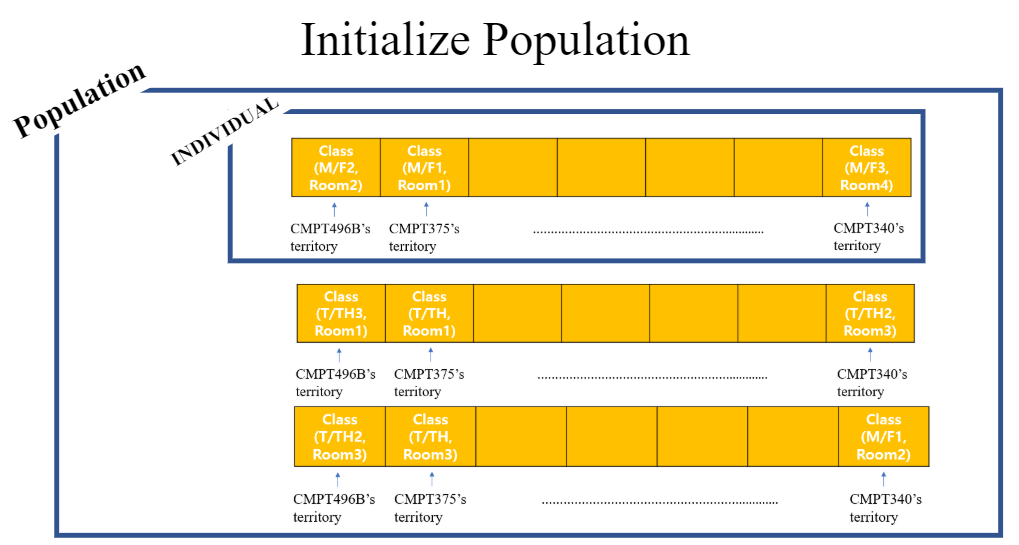
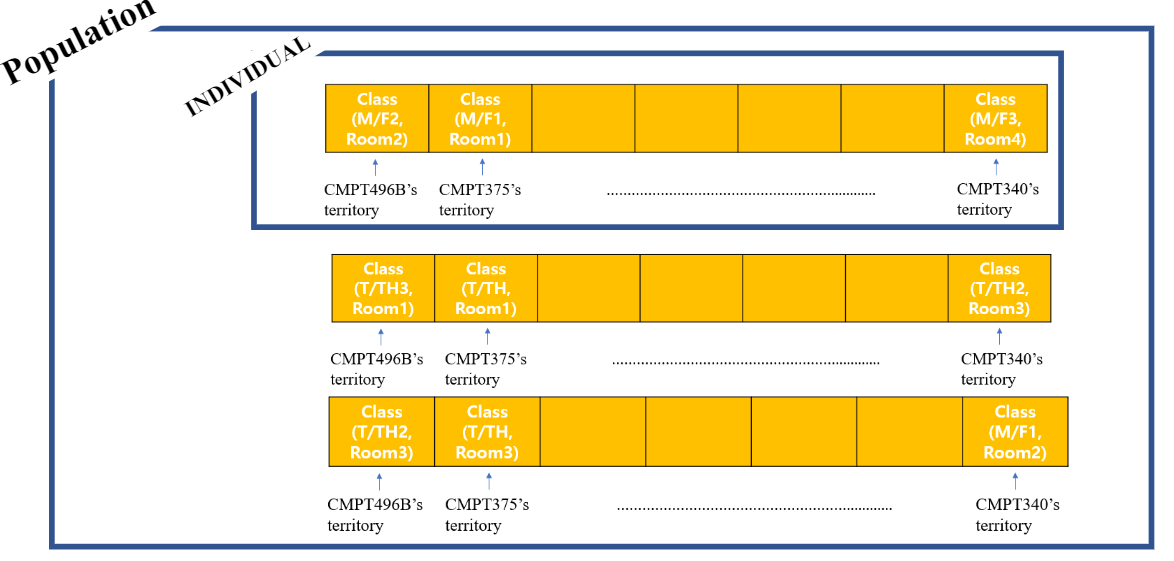
.

diff --git a/GA.html b/GA.html
@@ -47,20 +47,20 @@
 <div id =title ><div align = "center"><h3>0. Problem description</h3><br></div></div>
 <div id =title >
 <br>
-Let's say we need to make schedule for room/time with courses. How are we going to tune?
-It could be easy enough to do by manual way when it is not too much to tune, however, If it is too big to schedule it manually, then it would not be the best way to do it.
-Those are courses we have for comming semester, and we want to match room and time for each courses without any problems. <br></div>
+Let's say we need to make schedule for room/time with courses. How can we tune the schedule for all the courses ?
+It could be easy enough to be done by manual way when it is not too much to tune, however, If the scale is too large to schedule it manually, then it would not be the best way to do it manually.
+Those are courses we have for comming semester, and we want to match room and time for each courses without any conflicts.<br></div>
 
 
 <div id = n><img src = 'GA/img/Course.PNG' width="300px"></div>
 <div id = pic><img src = 'GA/img/blank.PNG' width="300px"></div>
 <br><br><br>
-<div id = text>The left picture below is the one possible answer for the scheduling and the right picture below is the wrong answer.</div>
+<div id = text>The left picture below is one of the possible answer for the scheduling and the right picture below is one of the wrong answer.</div>
 <div id = n><img src = 'GA/img/possible.PNG' width="400px"><br>The possible right answer</div>
 <div id = pic><img src = 'GA/img/violations.PNG' width="300px"><br>Wrong answer</div>
 
 <div id = text><br>
-Why can it not be the right answer?<br>
+Why can't it be the right answer?<br>
 </div>
 
 <div id = n><img src = 'GA/img/c1.PNG' width="200px"><br>Prof.A :<br> 2 lectures at the same time.</div>
@@ -82,40 +82,59 @@ If evaluation function is equal to 1, then it can be possible solution.
 
 <div id =title ><div align = center><h3>1. The concept of Genetic Algorithm</h3><br></div></div>
 
-<div id = text>Genetic algorithm is the way of finding the answer imitating the genetic system.
-All people get their genetic information from their parents, half from mom and half from dad. and sometimes, mutation occurs which can change the genetic information.
-In the Genetic Algorithm , each individual contains the information of answer. It does not have to be right.
-Each individual is now evaluated how much it is close to the correct answer. Depends on the fitness value of individual, it varies the chance of being parents.
-Then, How can we represent this information of courses and the classes for each individual? We can use array.
-Let’s say there are 7 courses. 🡪 create 7 spots for each courses.
-Array which contains “Class” classes	 🡪 Class[7]
-So first spot represents 1st course, second spot 2nd course.</div>
+<div id = text>Genetic algorithm uses the idea derived from how the inheritance works to fine a right answer.
+All individual gets their genetic information from their parents, equally from mother and father. Sometimes, mutation occurs and it changes genetic information.
+In the Genetic Algorithm , each individual contains information which is a candidate for answer.(It does not have to be right.)
+Each individual is now evaluated how close it is to the correct answer. Depends on the fitness value of individual, it varies the chance of being parents.
+If fitness value is high, then it has more chance to be picked up as parents. Two individuals are parents, and two offsprings are made from one parents. A simple mixture of parents' information is now information of offspring.<br>
+
+Then, How can we represent course information and the classes at each individual?
+Let’s say there are 7 courses. These 7 courses need class room and specific time. Where and when.
+This can be done by using array.
+
+Each index represent (class room and time) information.
+For example, Array[0] means (Monday_1st period, Room1), Array[1] (Monday_2nd period,Room1) ,....,(Friday_5th period, Room5)
+So whichever course is at the index of 0, this course is held in Monday_1st period and Room 1.
+</div>
 <div id = pic><img src ='GA/img/ch.PNG' width = "600px"></div>
 
 <div id = text>
-Now, we need to initialize population. Population is the group of individuals which contain information in the chromosome.</div>
+Now, we need to initialize population. Population is the group of individuals which contain a candidate for the right schedule.</div>
 
-<div id = pic><img src = 'GA/img/pop.PNG'  width="300px"></div>
+<div id = pic><img src = 'GA/img/pop.PNG'  width="600px" align = center></div>
+<br>
 <div id = text>
-and based on this, if there is the answer in that population, stop searching and return the answer,
-If there is no answer exists, then It will make another generation by selection, cross over, mutaton.
+After setting initial population, all individuals are evaluated with fitness formula. If there is any individual which has fitness value of 1, then it means that individual is the one we are looking for. Therefore, we pick that one as the right answer and terminate our algorithm.
+However, It is not likely to happen.<br>
+If none of them has fitness value of 1, then now we need to make another population replacing previous individuals(parents) to better individuals(offsprings).
+It is possibly done by selcting parents which has high fitness, and mutating some information to avoid being kept in local optima.
+</div>
 
-selection:
-There are some diverse selection methods such as rank order, russian rullette and etc, but I used rank order selection.
-Pick several individuals and pick the best one.</div>
-<div id = n><img src = 'GA/img/tour.PNG'  width="300px"></div>
-
-<div id = pic><img src = 'GA/img/tour_sel.PNG'  width="300px"></div>
-
-crossover:
-<div id = pic><img src = 'GA/img/crossover.PNG'  width="600px"></div>
-
-
-mutation:
+<center><h3>Selection</h3></center>
+<div id = n><img src = 'GA/img/tour.PNG'  width="380px" height = "200px"><br>Three individuals are selected and compared</div>
+<div id = pic><img src = 'GA/img/tour_sel.PNG'  width="380px" height = "200px"><br>The individual with fitness value 0.5 is selected.</div>
+<div id = text><br>
+  There are some diverse selection methods such as rank order, russian rullette and etc, but This algorithm used rank order selection.
+  Pick several(3 in this case) individuals from the population, and compare the fitness value. Pick individual which has the heigst value of fitness value.</div>
+<center><h3>Crossover</h3></center>
+<div id = pic><img src = 'GA/img/crossover.PNG'  width="800px"></div>
 <br>
-<div id = n><img src = 'GA/img/mutation.PNG'  width="300px"></div>
 
+<div id = text>
+Random point(within index) is selected, and from that index, Information from the paretns is exchanged and it became the offspring.
+</div>
+
+<center><h3>Mutation</h3></center>
+<br>
+<div id = pic><img src = 'GA/img/mutation.PNG'  width="600px"></div>
+
+<div id = text>
+Only some individuals are undergoing mutation. Random index is chosen, and the course at the index changes it to new one.
+</div>
 <div id = pic><img src = 'GA/img/m_data.PNG'  width="300px"></div>
-
-
+<div id = text>
+  _________________ add more from here
+before, and after picture..!</div>
 <br>
+
+<center><h3>To the new generation</h3></center>

diff --git a/Sudoku.html b/Sudoku.html
@@ -22,7 +22,7 @@
       padding-left :10%;
       padding-right : 10%;
       text-align:center;
-      width : 300px;
+      width : 320px;
     }
 
 
